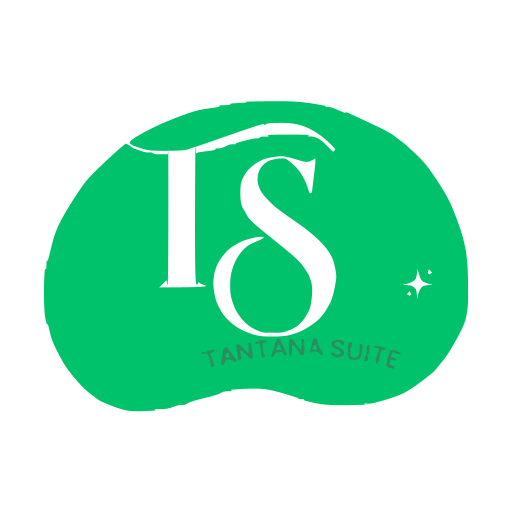
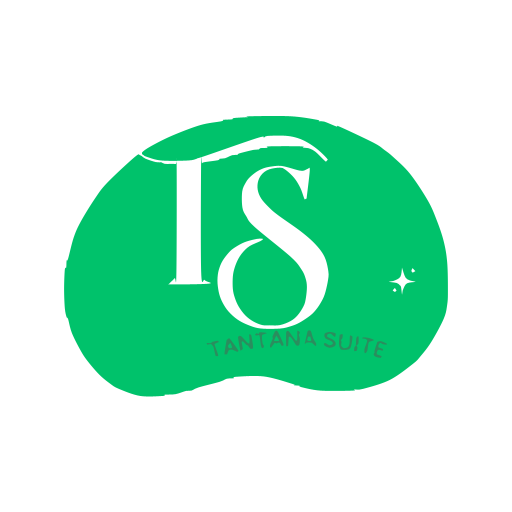
Retour aux icones avec leur fond
Annule e5c8506. Les cinq icones retrouvent octet pour octet leur etat
d avant : pastille blanche a coins arrondis pour les icones courantes,
carre plein pour la maskable et pour iOS. L invite d installation
remontre l icone carree.

Le cache du service worker passe a v4 : les appareils qui avaient deja
recupere les icones transparentes doivent redescendre celles-ci.

diff --git a/scripts/generer-icones.js b/scripts/generer-icones.js
@@ -210,29 +210,47 @@ function remplir(polys, taille, SS) {
   return couverture;
 }
 
+/** Couverture d'un rectangle à coins arrondis, par sur-échantillonnage. */
+function couvertureTuile(taille, rayon, SS) {
+  const c = new Float32Array(taille * taille);
+  const dedans = (x, y) => {
+    const cx = Math.min(Math.max(x, rayon), taille - rayon);
+    const cy = Math.min(Math.max(y, rayon), taille - rayon);
+    if (x >= rayon && x <= taille - rayon) return y >= 0 && y <= taille;
+    if (y >= rayon && y <= taille - rayon) return x >= 0 && x <= taille;
+    return (x - cx) ** 2 + (y - cy) ** 2 <= rayon * rayon;
+  };
+  for (let y = 0; y < taille; y++) {
+    for (let x = 0; x < taille; x++) {
+      let n = 0;
+      for (let sy = 0; sy < SS; sy++) {
+        for (let sx = 0; sx < SS; sx++) {
+          if (dedans(x + (sx + 0.5) / SS, y + (sy + 0.5) / SS)) n++;
+        }
+      }
+      c[y * taille + x] = n / (SS * SS);
+    }
+  }
+  return c;
+}
+
 // --------------------------------------------------------------- Dessin
 
-const BLANC = [255, 255, 255];
+const FOND = [255, 255, 255];
 
 /**
- * Dessine la marque dans un carré.
- *
- * Le fond est transparent par défaut : posée sur une pastille blanche,
- * la marque devenait un rond blanc avec une tache verte dedans, et
- * c'est la pastille qu'on voyait d'abord. Sans fond, le lanceur peut
- * bien découper ce qu'il veut — il n'y a rien à découper autour du
- * dessin.
- *
  * @param taille     côté du carré, en pixels.
- * @param fond       couleur de fond, ou `null` pour un fond transparent.
+ * @param partRayon  rayon des coins, en part du côté (0 = carré plein).
  * @param partMarque largeur de la marque, en part du côté.
  */
-function dessiner(logo, taille, fond, partMarque) {
+function dessiner(logo, taille, partRayon, partMarque) {
   const SS = 8;
   const [bx, by, bw, bh] = logo.boite;
   const echelle = (taille * partMarque) / bw;
   const dx = (taille - bw * echelle) / 2 - bx * echelle;
   const dy = (taille - bh * echelle) / 2 - by * echelle;
+
+  const tuile = partRayon > 0 ? couvertureTuile(taille, taille * partRayon, 4) : null;
 
   const couches = logo.chemins.map((c) => ({
     couleur: c.couleur,
@@ -245,29 +263,16 @@ function dessiner(logo, taille, fond, partMarque) {
 
   const px = Buffer.alloc(taille * taille * 4);
   for (let i = 0; i < taille * taille; i++) {
-    // Composition « source-over » en couleurs prémultipliées : c'est ce
-    // qui donne des bords propres quand le fond est transparent. Une
-    // moyenne classique y ferait apparaître un liseré noir.
-    let r = fond ? fond[0] : 0;
-    let g = fond ? fond[1] : 0;
-    let b = fond ? fond[2] : 0;
-    let alpha = fond ? 1 : 0;
+    const rgb = [FOND[0], FOND[1], FOND[2]];
     for (const couche of couches) {
       const a = couche.couverture[i];
       if (a <= 0) continue;
-      r = couche.couleur[0] * a + r * alpha * (1 - a);
-      g = couche.couleur[1] * a + g * alpha * (1 - a);
-      b = couche.couleur[2] * a + b * alpha * (1 - a);
-      alpha = a + alpha * (1 - a);
-      if (alpha > 0) {
-        r /= alpha;
-        g /= alpha;
-        b /= alpha;
-      }
+      for (let c = 0; c < 3; c++) rgb[c] = rgb[c] * (1 - a) + couche.couleur[c] * a;
     }
-    px[i * 4] = Math.round(r);
-    px[i * 4 + 1] = Math.round(g);
-    px[i * 4 + 2] = Math.round(b);
+    const alpha = tuile ? tuile[i] : 1;
+    px[i * 4] = Math.round(rgb[0]);
+    px[i * 4 + 1] = Math.round(rgb[1]);
+    px[i * 4 + 2] = Math.round(rgb[2]);
     px[i * 4 + 3] = Math.round(alpha * 255);
   }
   return encoderPng(taille, taille, px);
@@ -297,19 +302,16 @@ const logo = lireLogo(path.join(dossier, "logo.svg"));
 console.log(`  source  logo.svg — boîte ${logo.boite.join(" ")}, ${logo.chemins.length} chemins`);
 
 const fichiers = [
-  ["icon-192.png", dessiner(logo, 192, null, 0.84)],
-  ["icon-512.png", dessiner(logo, 512, null, 0.84)],
-  // Maskable : Android découpe l'icône à la forme du lanceur — cercle,
-  // carré arrondi, goutte. Tout doit donc tenir dans le cercle central
-  // de 80 %, sans quoi le découpage entamerait le dessin. La marque
-  // étant plus large que haute, sa diagonale vaut 1,24 fois sa largeur :
-  // 0,60 du côté la laisse rentrer avec de la marge.
-  ["icon-maskable-512.png", dessiner(logo, 512, null, 0.6)],
-  // Seule exception : iOS remplit de NOIR toute transparence d'une
-  // apple-touch-icon. Un fond y est donc imposé, et le blanc du dessin
-  // d'origine vaut mieux que du noir.
-  ["icon-apple-180.png", dessiner(logo, 180, BLANC, 0.74)],
-  ["favicon.ico", encoderIco(dessiner(logo, 48, null, 0.94), 48)],
+  ["icon-192.png", dessiner(logo, 192, 0.22, 0.76)],
+  ["icon-512.png", dessiner(logo, 512, 0.22, 0.76)],
+  // Maskable : le système rogne jusqu'à 20 % de chaque bord, donc pas de
+  // coins arrondis à nous et une marque nettement plus petite.
+  ["icon-maskable-512.png", dessiner(logo, 512, 0, 0.58)],
+  // iOS remplit de NOIR toute transparence d'une apple-touch-icon, et
+  // applique ensuite son propre masque arrondi : il lui faut donc un
+  // carré parfaitement opaque, sans coins arrondis de notre part.
+  ["icon-apple-180.png", dessiner(logo, 180, 0, 0.72)],
+  ["favicon.ico", encoderIco(dessiner(logo, 48, 0.18, 0.88), 48)],
 ];
 for (const [nom, buf] of fichiers) {
   fs.writeFileSync(path.join(dossier, nom), buf);

diff --git a/src/components/shared/InstallPrompt.tsx b/src/components/shared/InstallPrompt.tsx
@@ -116,10 +116,13 @@ export const InstallPrompt: React.FC = () => {
         className="app-card flex items-start gap-3 p-3.5 sm:p-4"
         style={{ boxShadow: "var(--elev-3)" }}
       >
-        {/* Le SVG plutôt que l'icône carrée : celle-ci est maintenant
-            transparente, son cadre arrondi ne se voyait donc plus, et le
-            vectoriel reste net quel que soit l'écran. */}
-        <img src="/logo.svg" alt="" width={49} height={36} className="h-9 w-auto shrink-0" />
+        <img
+          src="/icon-192.png"
+          alt=""
+          width={40}
+          height={40}
+          className="h-10 w-10 shrink-0 rounded-xl"
+        />
 
         <div className="min-w-0 flex-1">
           <p className="text-sm font-semibold text-foreground">

diff --git a/public/sw.js b/public/sw.js
@@ -22,7 +22,7 @@
  * hors ligne, et c'est un choix.
  */
 
-const VERSION = "tantana-v3";
+const VERSION = "tantana-v4";
 const CACHE_STATIQUE = `${VERSION}-statique`;
 const CACHE_POLICES = `${VERSION}-polices`;
 
